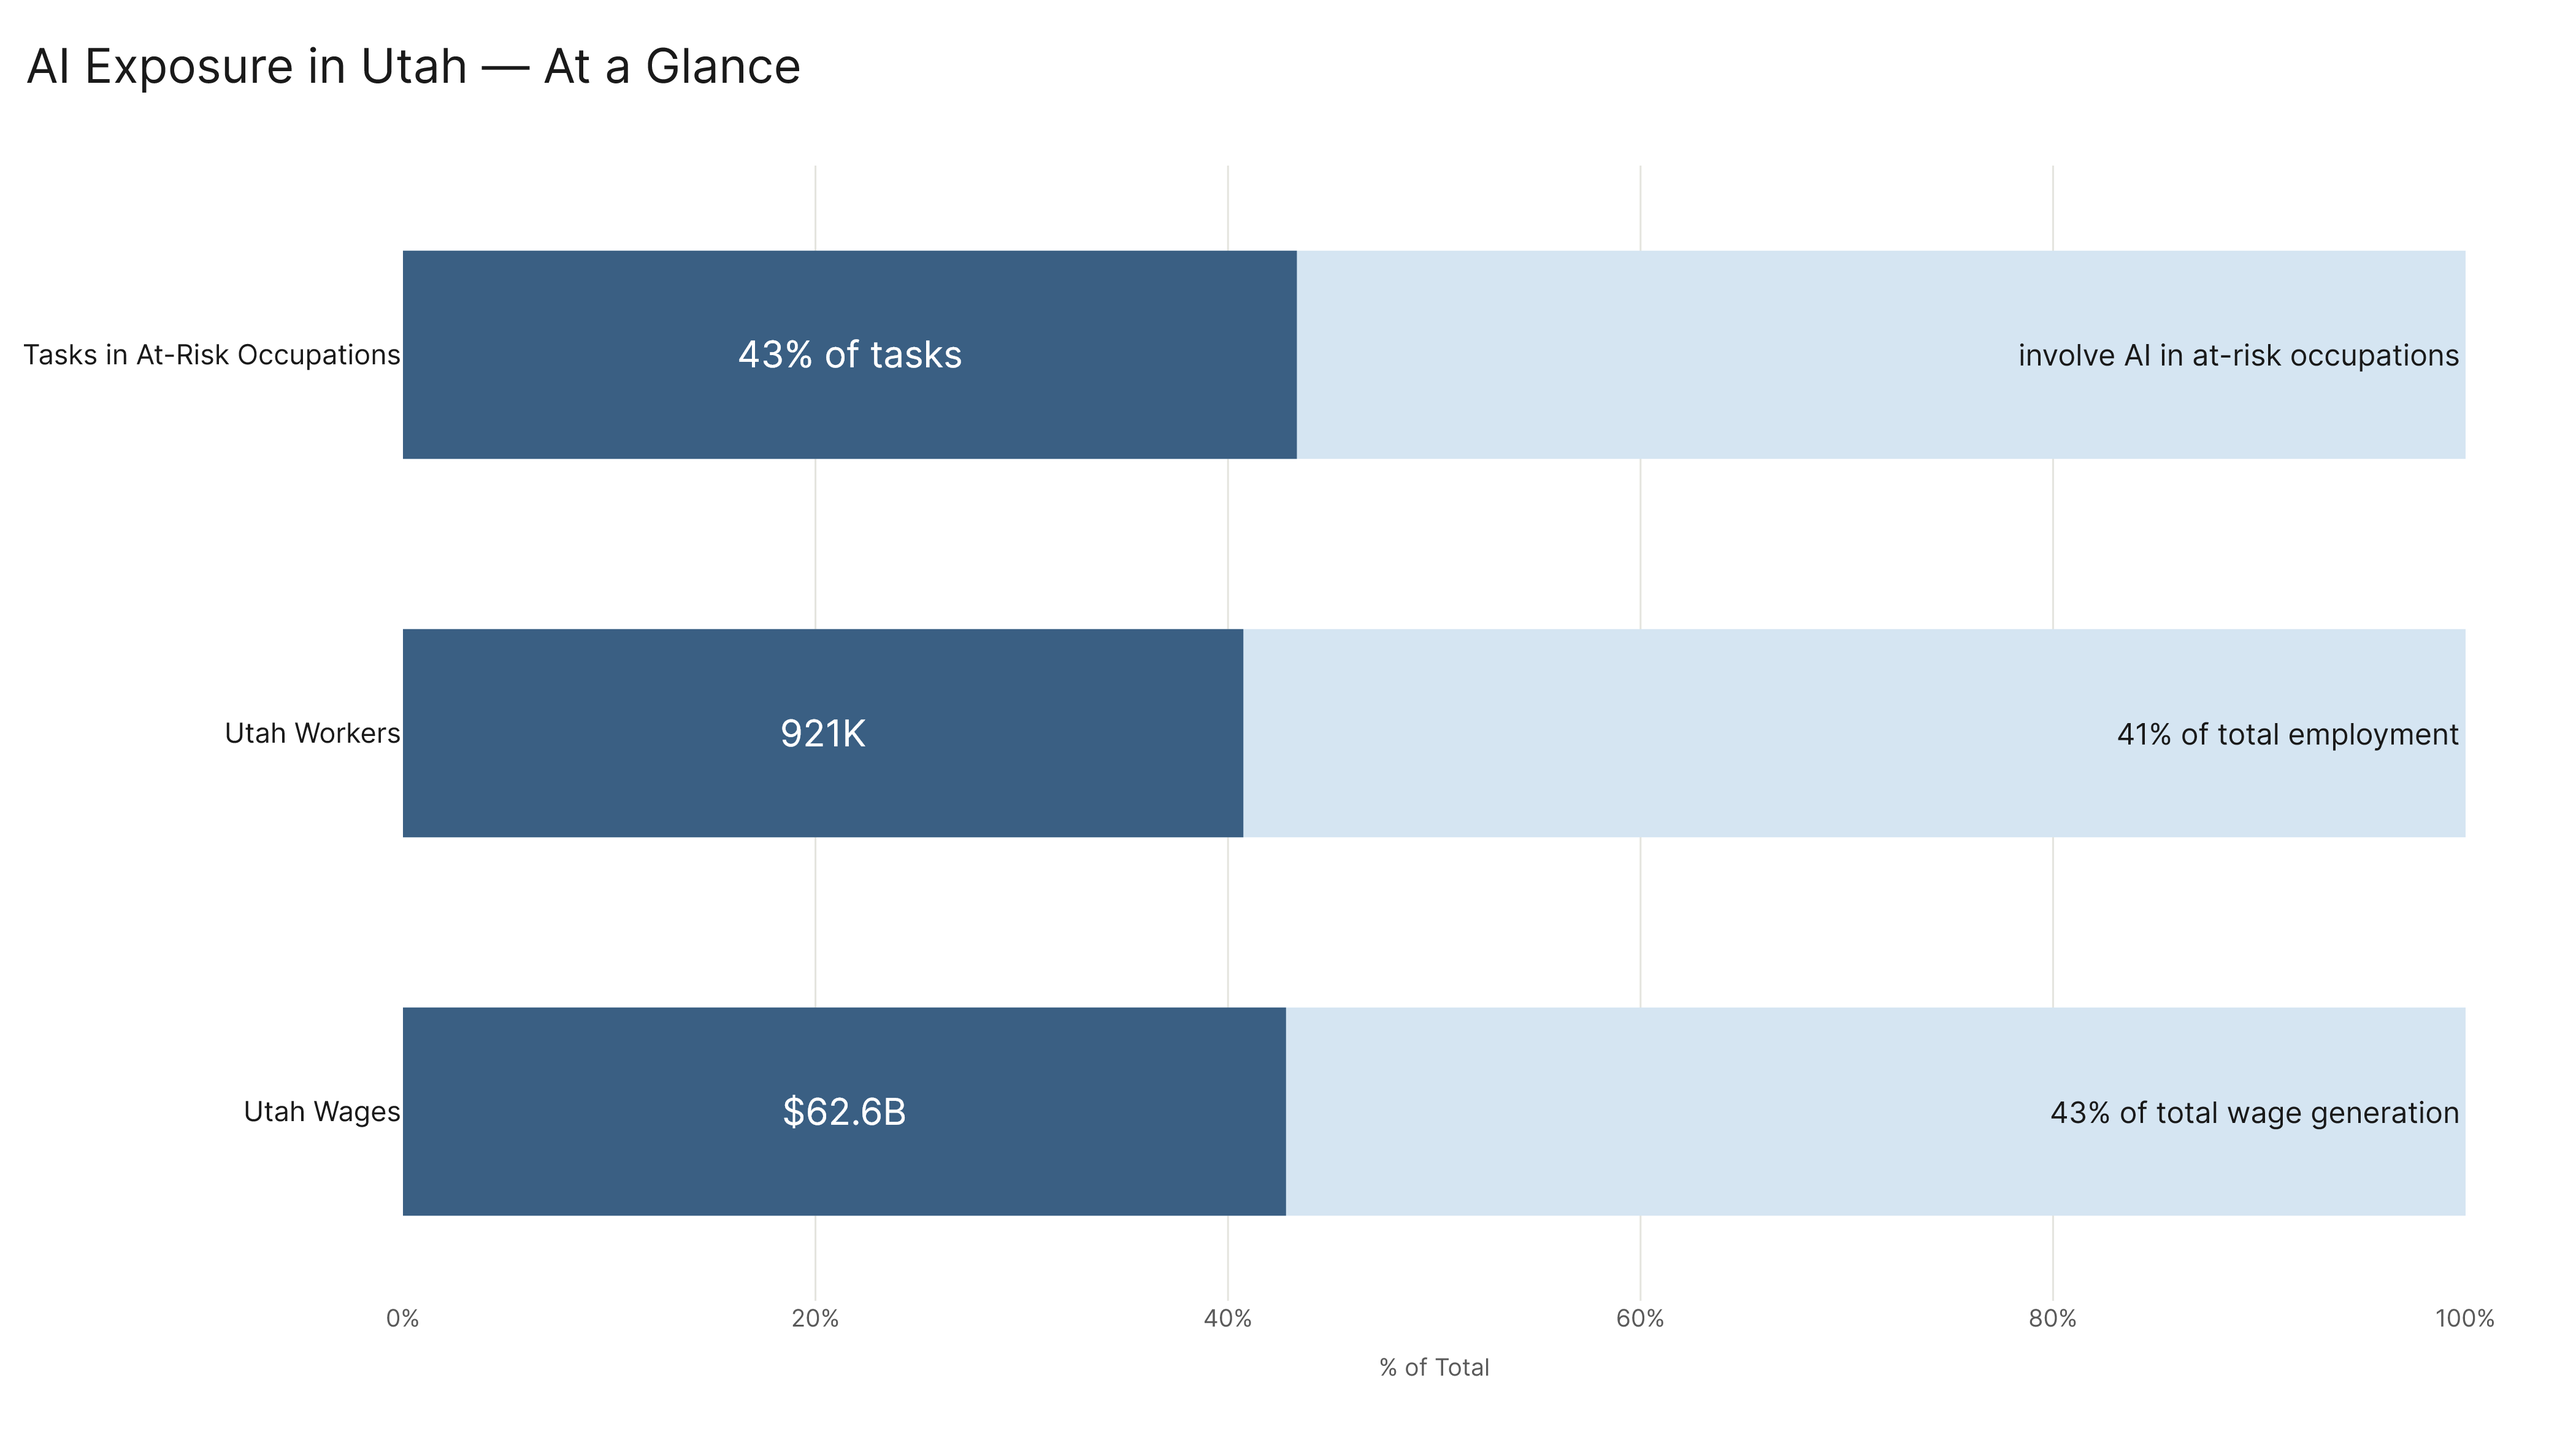
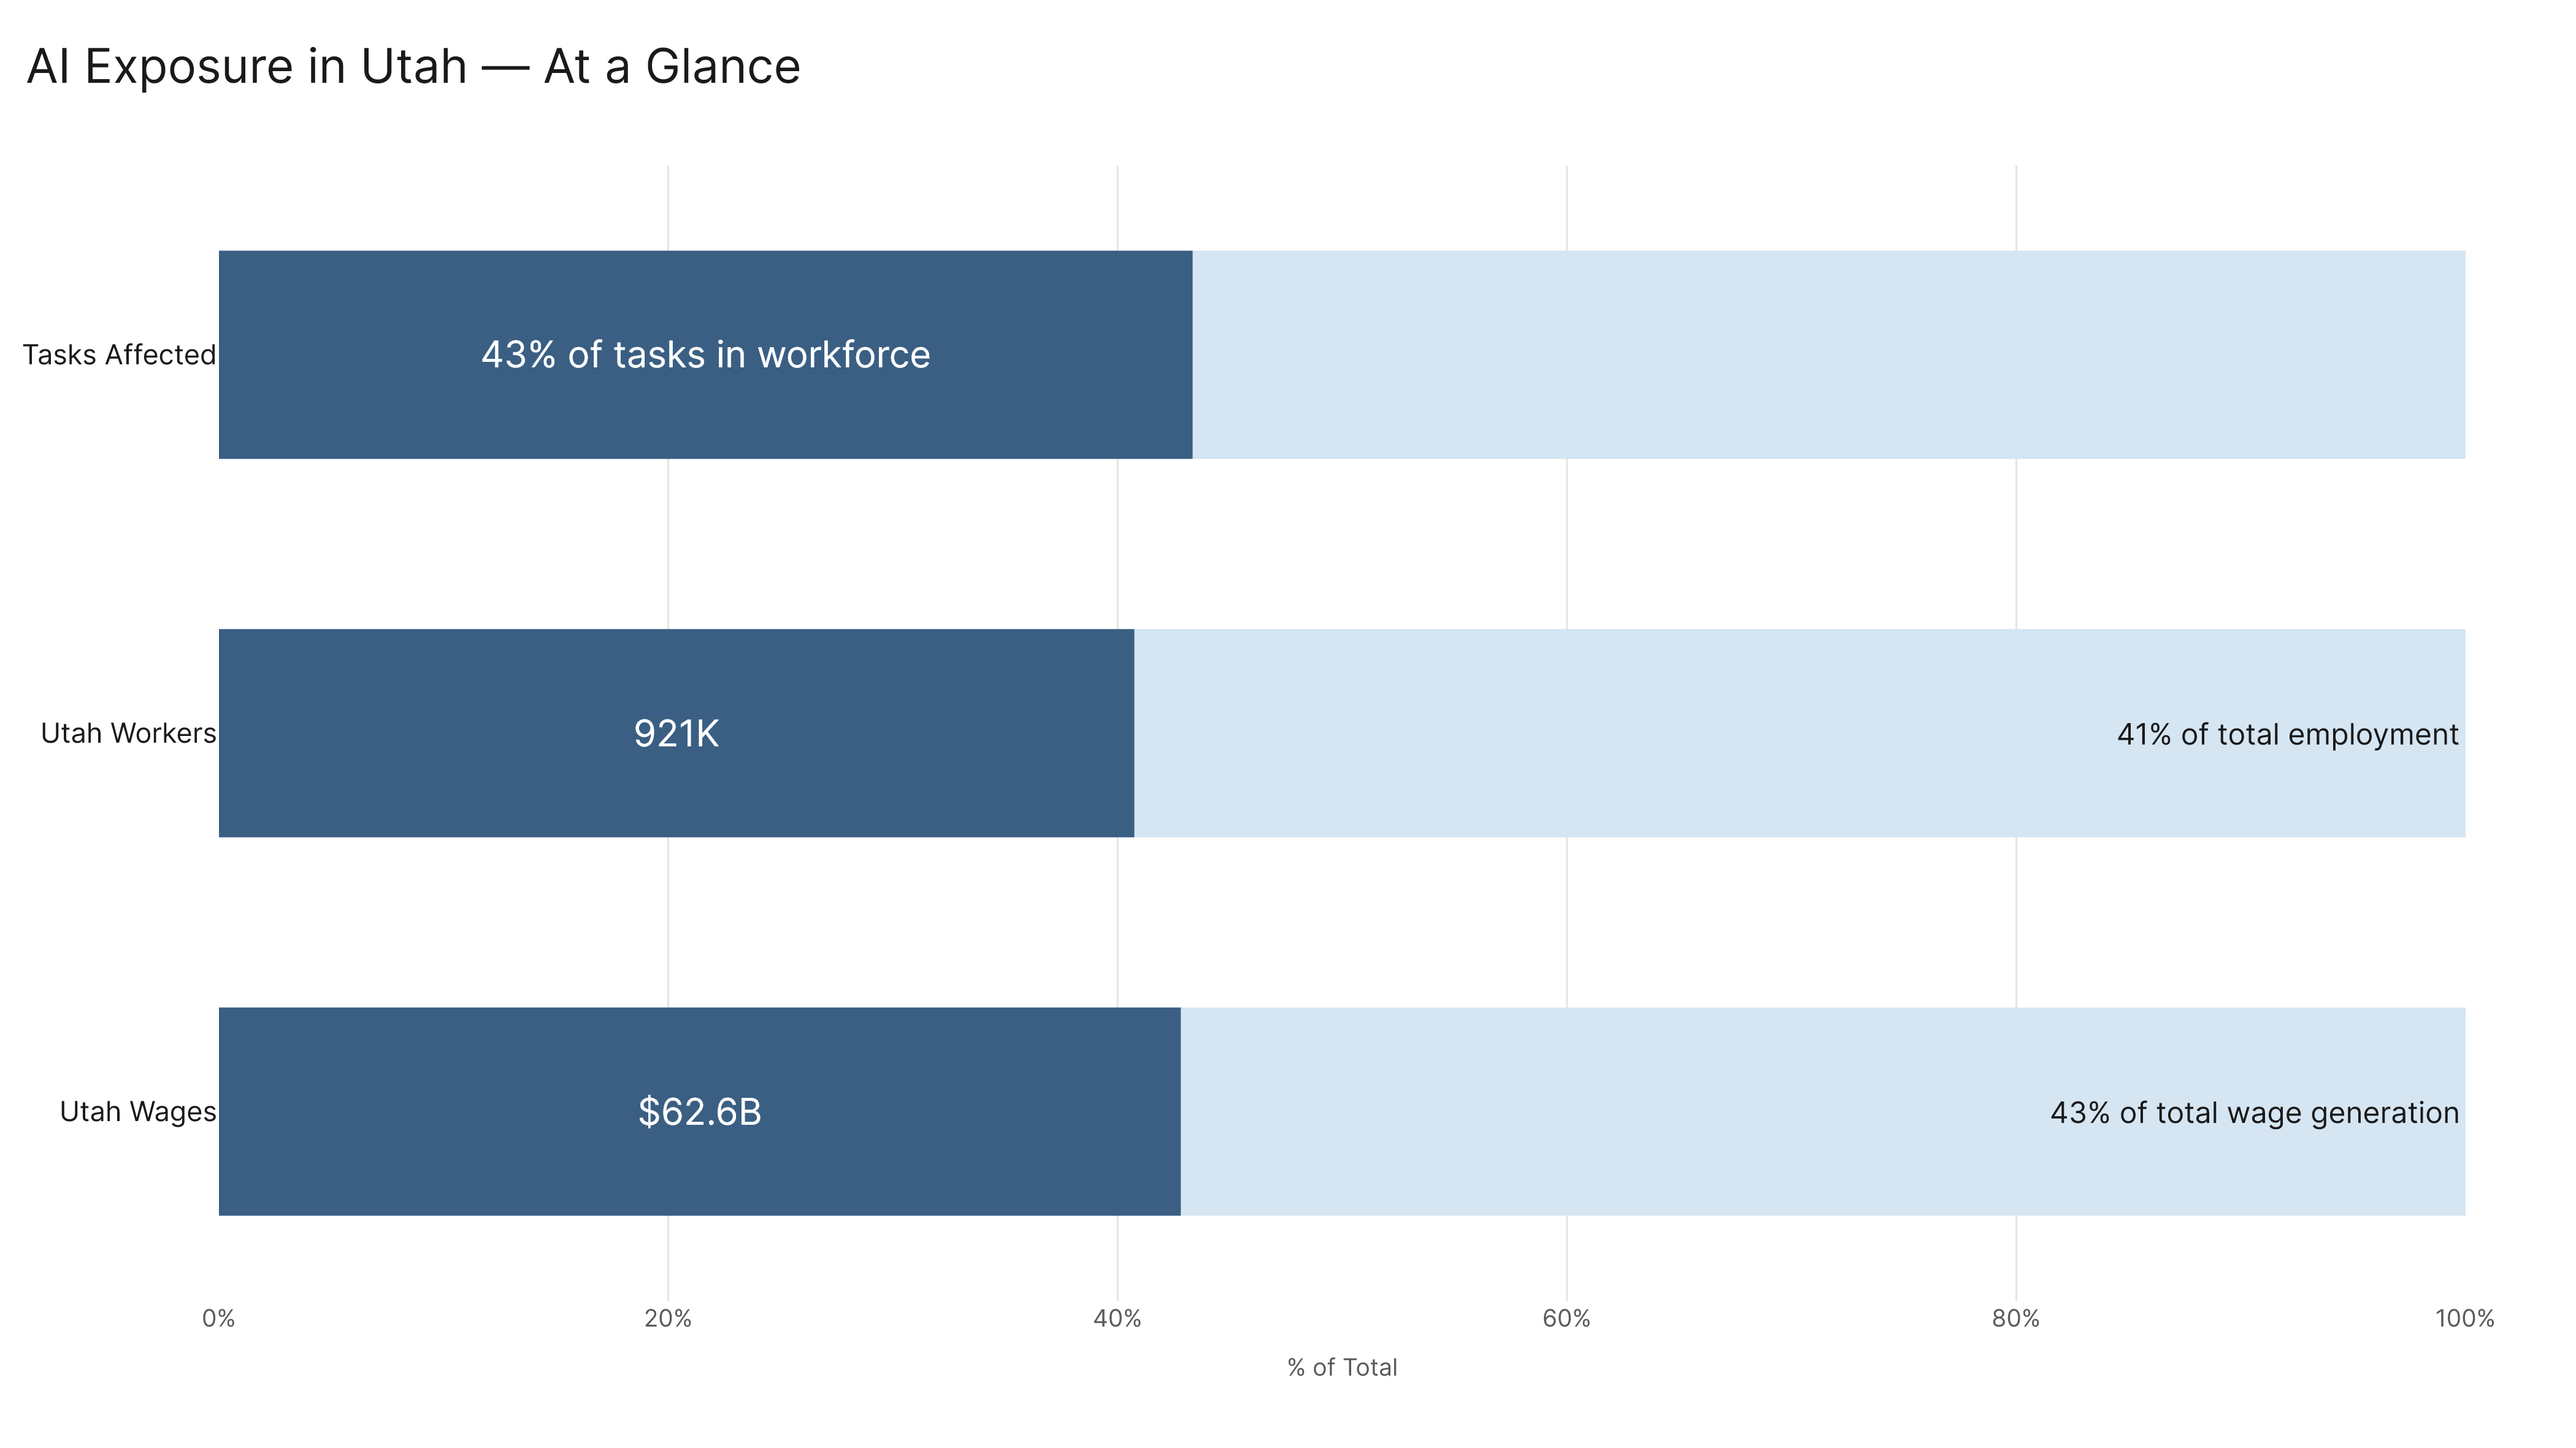
edit headline chart for workforce slides

diff --git a/analysis/questions/workforce_meeting_v2/run.py b/analysis/questions/workforce_meeting_v2/run.py
@@ -352,7 +352,7 @@ def _chart_00_headline(
 
     # Categories — displayed top to bottom (autorange="reversed")
     categories = [
-        "Tasks in At-Risk Occupations",
+        "Tasks Affected",
         "Utah Workers",
         "Utah Wages",
     ]
@@ -360,14 +360,14 @@ def _chart_00_headline(
 
     # White text inside the colored bar: the raw value
     inside_vals = [
-        f"{pct_tasks:.0f}% of tasks",
+        f"{pct_tasks:.0f}% of tasks in workforce",
         format_workers(workers_aff),
         format_wages(wages_aff),
     ]
 
     # Dark text to the right: what % of the total this represents
     outside_vals = [
-        "involve AI in at-risk occupations",
+        "",
         f"{pct_workers:.0f}% of total employment",
         f"{pct_wages:.0f}% of total wage generation",
     ]
